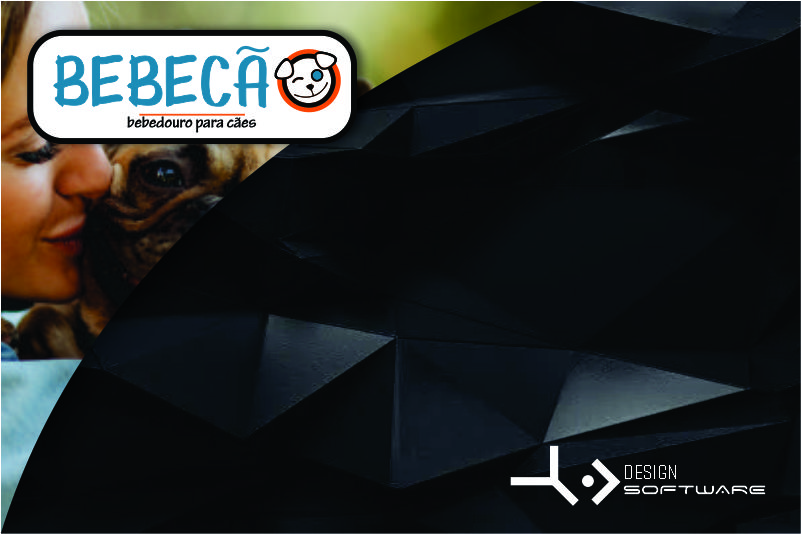
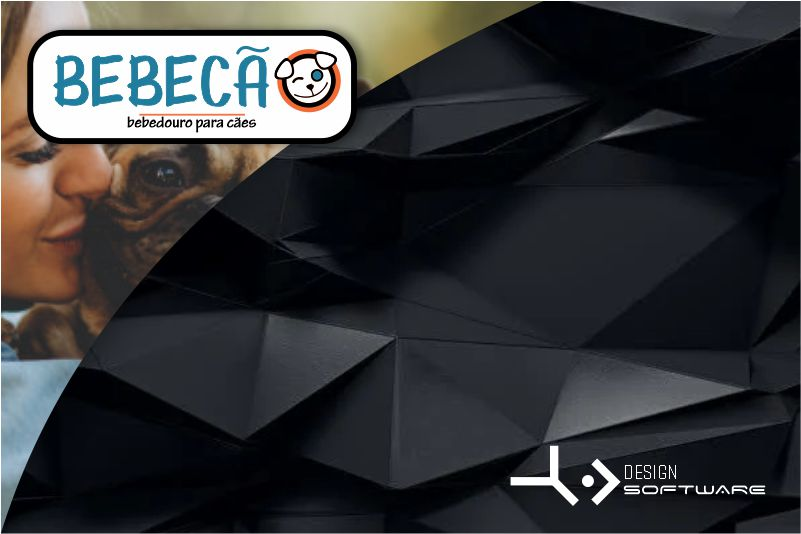
Spd brasil cart

diff --git a/index.html b/index.html
@@ -586,6 +586,17 @@
                            </div>
                         </div>
                      </div>
+                     <div class="col-lg-4 col-md-6 col-sm-12 Softwares">
+                        <div class="work">
+                           <img class="img-fluid" src="images/CartSPDBrasil.jpg" alt="">
+                           <div class="desc">
+                              <div class="con">
+                                 <h3><a href="projetos/Bebecao/index.html" target="_blank">SPB Brasil</a></h3>
+                                 <span>The Coding Cabin</span>
+                              </div>
+                           </div>
+                        </div>
+                     </div>
                   </div>
                </div>
             </div>
